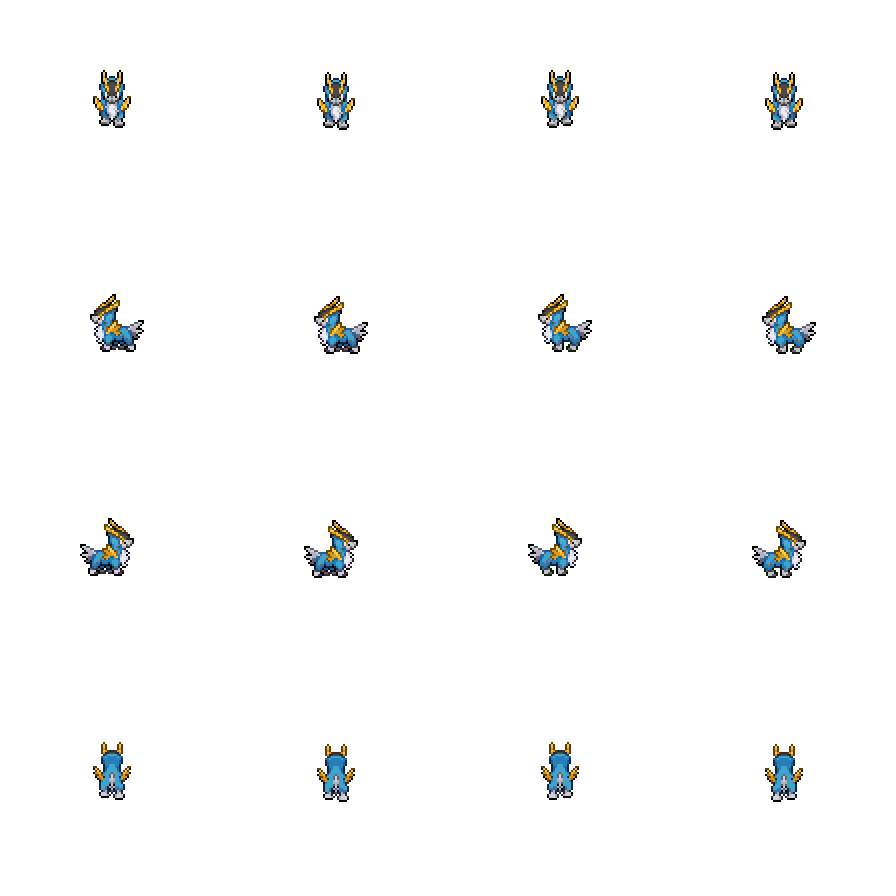
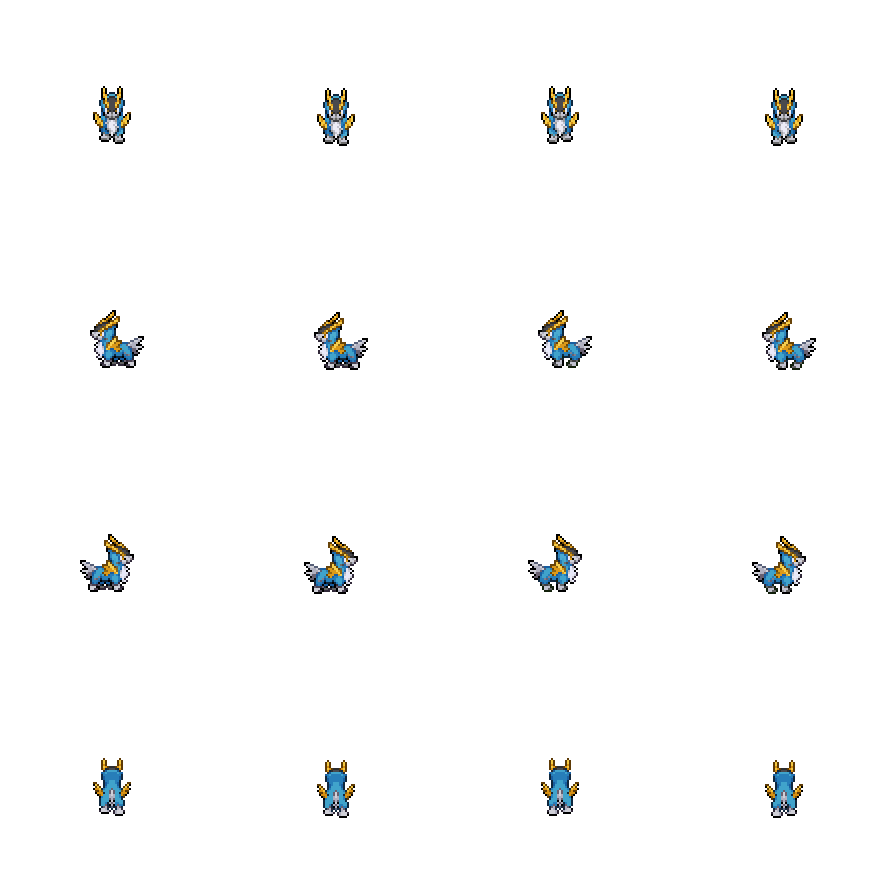
Lower mount art and expose Cobalion head

diff --git a/tools/build_cobalion_mount.py b/tools/build_cobalion_mount.py
@@ -5,7 +5,7 @@ from import_player_layered_sprites import write_texture_import
 ROOT = Path(__file__).resolve().parents[1]
 ASSETS = ROOT / "assets/mounts/cobalion"
 FRAME = 224
-ORIGIN = (80, 68)
+ORIGIN = (80, 84)
 
 def side_head(x: int, y: int, row: int) -> bool:
     u = (x if row == 1 else 63 - x) // 2
@@ -24,10 +24,9 @@ def build() -> None:
             foreground=Image.new("RGBA",(FRAME,FRAME))
             for y in range(64):
                 for x in range(64):
-                    # Keep Cobalion's horns behind the rider, but bring its
-                    # eyes and muzzle forward so the face remains visible
-                    # beneath the player's face in the front-facing pose.
-                    front = row == 0 and y >= 24
+                    # Put Cobalion's complete front-facing sprite in front of
+                    # the rider so its head does not get covered.
+                    front = row == 0
                     if row in (1,2): front = side_head(x,y,row)
                     if front: foreground.putpixel((ORIGIN[0]+x,ORIGIN[1]+y),sprite.getpixel((x,y)))
             mask=Image.new("RGBA",(FRAME,FRAME),(255,255,255,0));mask.putalpha(foreground.getchannel("A"))

diff --git a/tools/build_glaceon_mount.py b/tools/build_glaceon_mount.py
@@ -12,7 +12,7 @@ from import_player_layered_sprites import write_texture_import
 ROOT = Path(__file__).resolve().parents[1]
 ASSETS = ROOT / "assets/mounts/glaceon"
 FRAME = 224
-ORIGIN = (80, 68)
+ORIGIN = (80, 84)
 
 
 def side_head(x: int, y: int, row: int, col: int) -> bool:

diff --git a/assets/mounts/glaceon/README.md b/assets/mounts/glaceon/README.md
@@ -1,10 +1,11 @@
 # Glaceon mount
 
 Approved v10 follower design, using the original `assets/followers/GLACEON.png`
-at 1×. The 224×224 runtime frames provide transparent padding only; neither
-Glaceon nor the player's original 64×64 riding pose is resized. All four
-directions and phases retain their source pixels. The side seat follows the
-source's two-pixel bob. The rider sits four pixels lower than the v10 preview
+at 1×. The 224×224 runtime frames place unchanged Glaceon pixels 16 pixels
+lower to align the mount with the player's world position; neither Glaceon nor
+the player's original 64×64 riding pose is resized. All four directions and
+phases retain their source pixels. The side seat follows the source's two-pixel
+bob. The rider sits four pixels lower than the v10 preview
 to meet the back, retaining the same horizontal position and ear contour. The far upper ear remains behind the rider, while the
 near head, ear and flap use a matching foreground and rider mask.
 

diff --git a/assets/mounts/cobalion/README.md b/assets/mounts/cobalion/README.md
@@ -2,9 +2,11 @@
 
 Built from the supplied four-direction sprite sheet in `source.png`, preserving
 its original pixels at 1× and the game's original 64×64 player riding frames.
-The 224×224 frames add transparent padding for the existing mount renderer.
-Front, side and rear layers use matching rider masks. Side frames follow the
-source's two-pixel animation bob.
+The 224×224 frames place the unchanged source pixels 16 pixels lower to align
+the mount with the player's world position. The complete front-facing Cobalion
+sprite is layered over the rider so its head stays visible; side and rear
+layers use matching rider masks. Side frames follow the source's two-pixel
+animation bob.
 
 Rebuild with `python tools/build_cobalion_mount.py` (Pillow required).
 `icon.png` uses the unpadded front cell.

diff --git a/CHANGELOG.md b/CHANGELOG.md
@@ -2,6 +2,8 @@
 
 ## Unreleased
 
+- Shift Cobalion, Glaceon and Shiny Glaceon mount art 16 pixels lower on their padded sheets, and layer Cobalion's full front-facing head over the rider.
+
 - Restore the walkable Lavender Town exit to Route 8 and its transition arrow after the exit reverted to a disabled placeholder.
 
 - Bring Cobalion's front-facing eyes and muzzle in front of the rider so its face stays visible while the horns remain behind the player.
